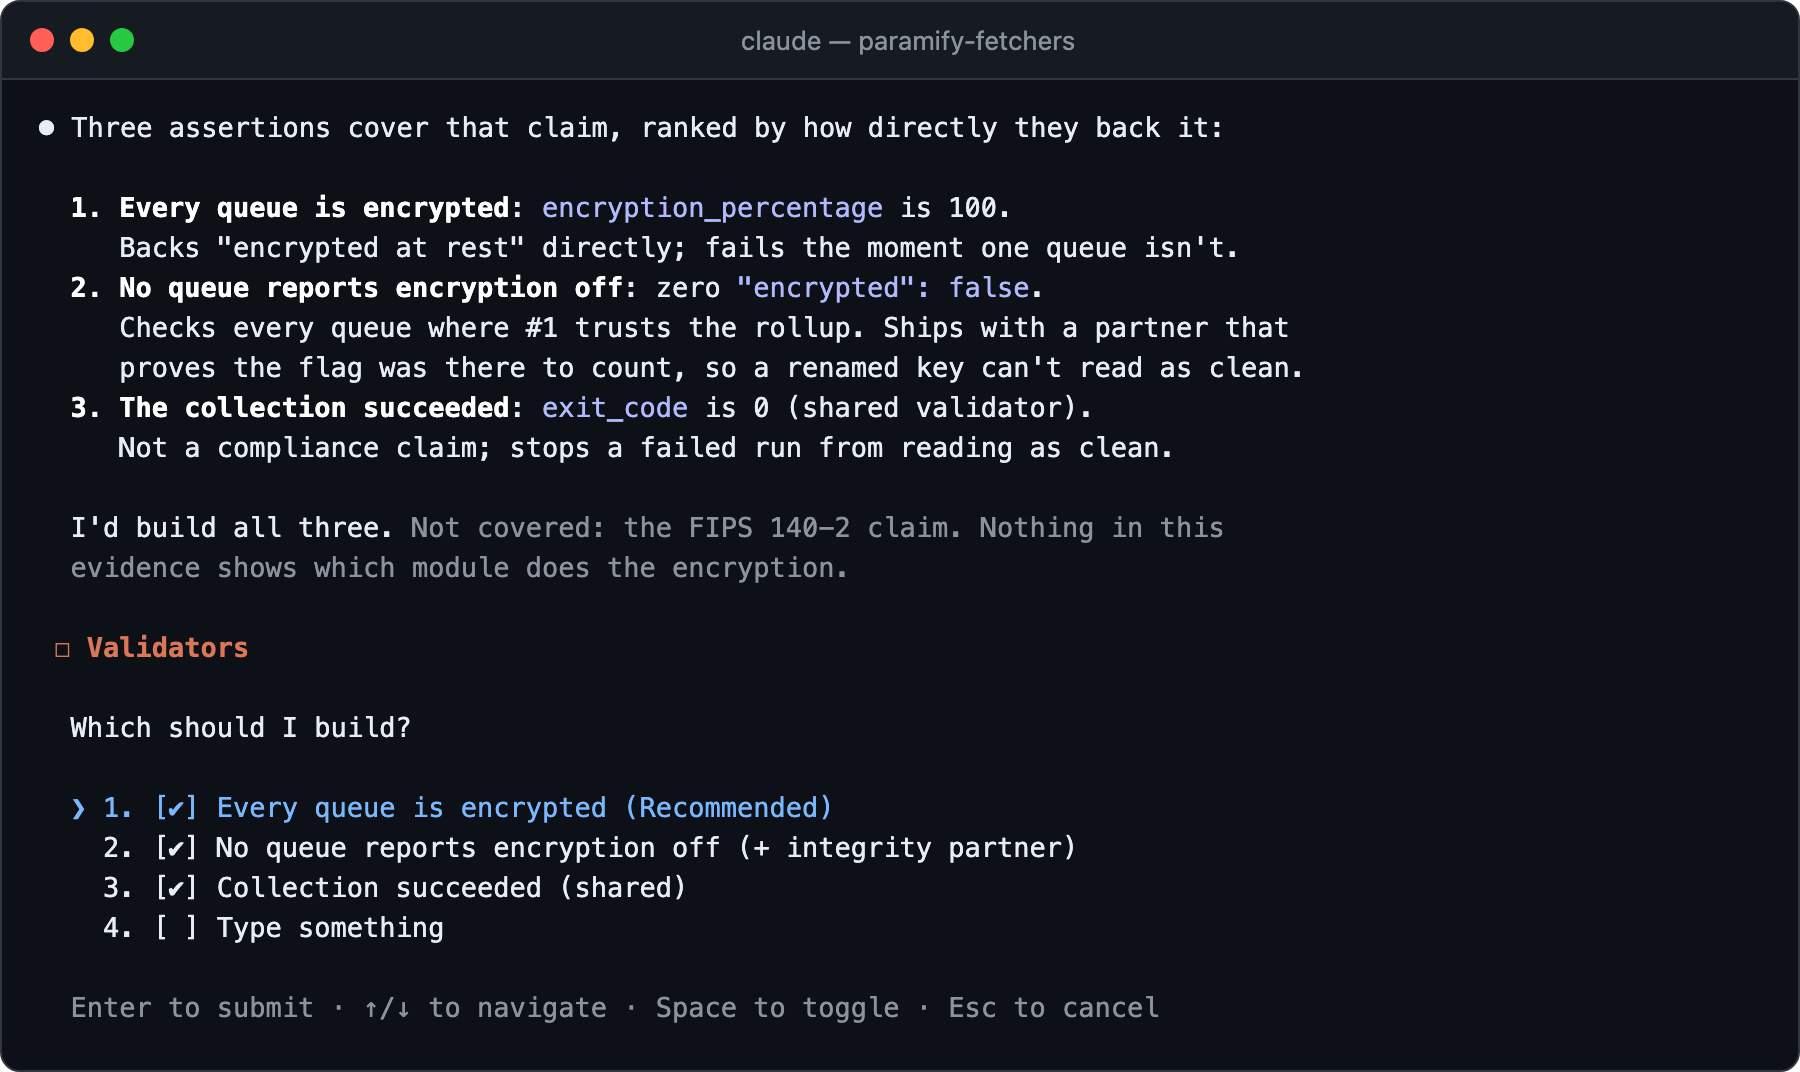
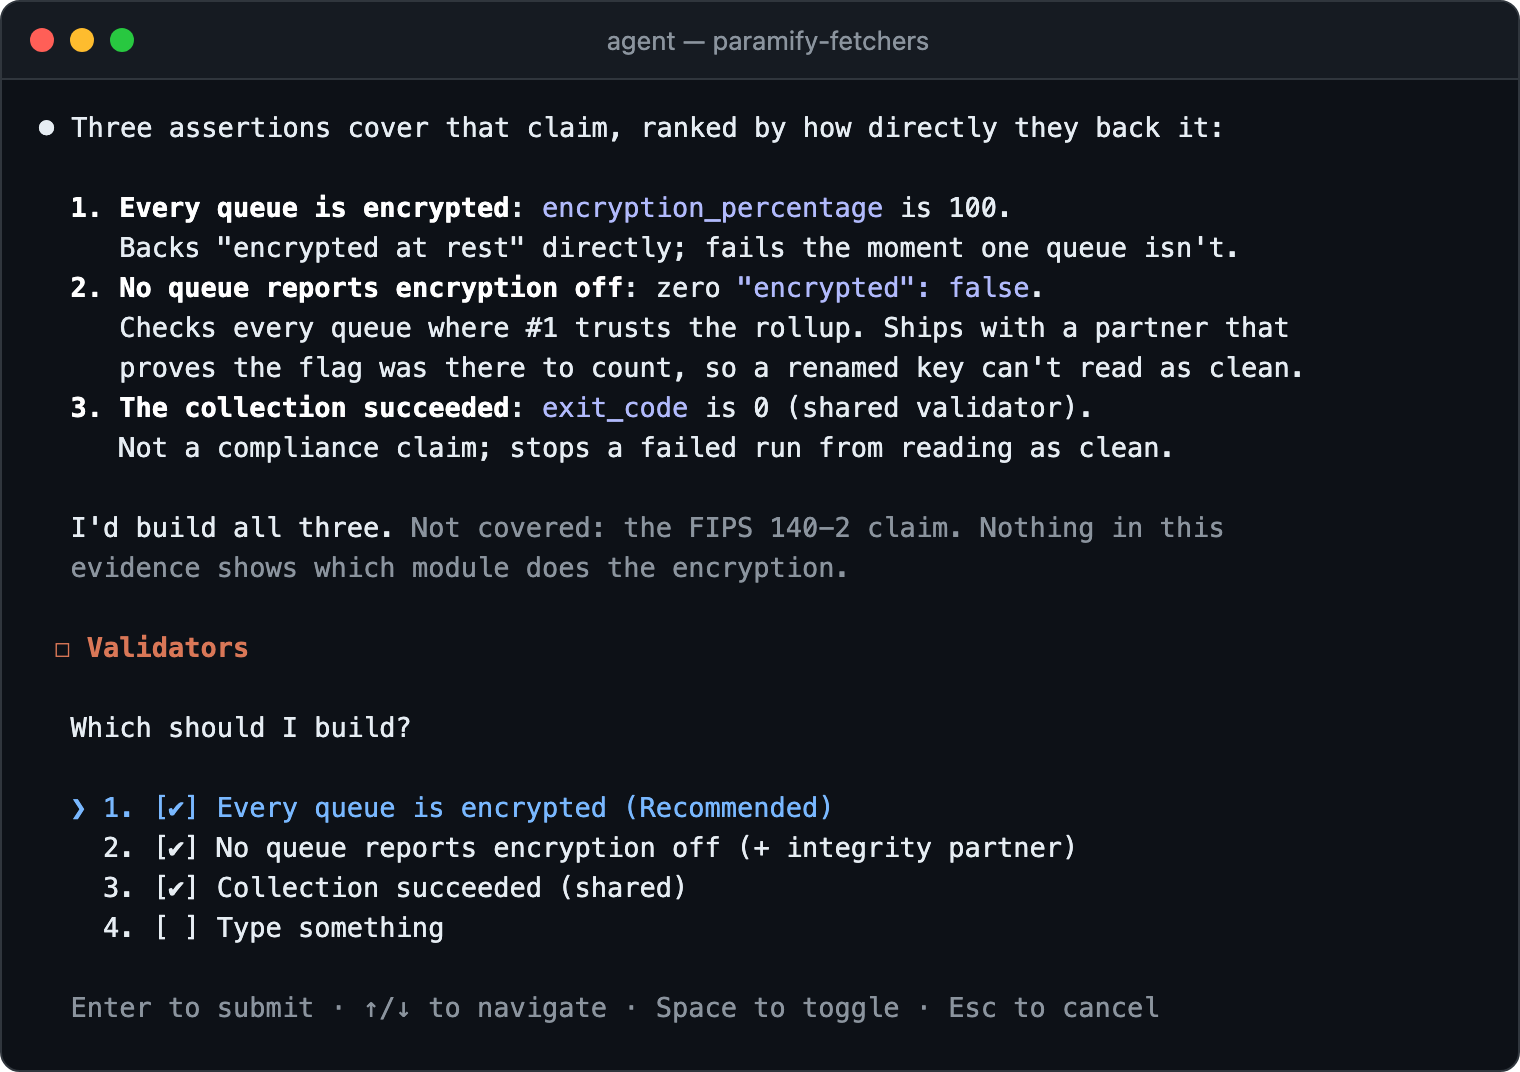
Make the suggest-validator guide agent-agnostic and point it at app.paramify.com
Refers to "the agent" instead of Claude throughout the text, diagram and
example session panels, and drops the stage-first advice so every URL
shown is the production default.

diff --git a/docs/suggest_validator_guide.md b/docs/suggest_validator_guide.md
@@ -10,7 +10,7 @@ check the results in the app.
 ![End-to-end flow: API key and real evidence, then the six skill phases, then upload, sync, and verify in Paramify](img/suggest_validator/flow.svg)
 
 **You need:** [the repo installed](../README.md#install) ·
-[Claude Code, run from the repo root](../README.md#drive-it-with-an-ai-agent) ·
+[an AI coding agent, run from the repo root](../README.md#drive-it-with-an-ai-agent) ·
 Node.js (Paramify runs validator regexes as JavaScript)
 
 ---
@@ -25,9 +25,8 @@ The permissions listed there leave out one this skill needs:
 ![The Create API Key dialog with View Solution Capabilities, View/Write Evidences, and View/Write Validators](img/suggest_validator/app-01-api-key.png)
 
 Put the key in `.env` at the repo root (`paramify` loads it automatically).
-Start on stage (`PARAMIFY_API_BASE_URL=https://stage.paramify.com/api/v0`),
-since syncing writes to the workspace. Stage and production keys are separate.
-To check the key works:
+It talks to `https://app.paramify.com/api/v0` by default. To check the key
+works:
 
 ![paramify capabilities list returning Data Protection capabilities](img/suggest_validator/01-key-check.png)
 
@@ -42,25 +41,25 @@ artifact from the workspace instead.
 
 ## 3. Run the skill
 
-In Claude Code, type `/suggest-validator <fetcher name>`, or just ask it to
-*"suggest validators for the SQS encryption evidence"*. Claude handles
+In your AI agent, run `/suggest-validator <fetcher name>`, or just ask it to
+*"suggest validators for the SQS encryption evidence"*. The agent handles
 everything that follows. The screenshots are an example session for
 `aws_sqs_encryption_status`.
 
-**Phases 1–2: evidence and claim.** Claude finds the newest populated run and
+**Phases 1–2: evidence and claim.** The agent finds the newest populated run and
 proposes the capability it should prove. Paramify's API doesn't link evidence
 sets to capabilities, so **you confirm the capability**. If it has no narrative
 yet, write one in Paramify first.
 
-![Example session: Claude reports the evidence file and proposes the Server-Side Encryption Protection narrative](img/suggest_validator/session-1-evidence.png)
+![Example session: the agent reports the evidence file and proposes the Server-Side Encryption Protection narrative](img/suggest_validator/session-1-evidence.png)
 
-**Phase 3: you choose.** Claude ranks the assertions that would back the
+**Phase 3: you choose.** The agent ranks the assertions that would back the
 claim, recommends a set, and names what the evidence can't cover.
 **You pick which ones to build.**
 
 ![Example session: three ranked assertions and a multi-select prompt](img/suggest_validator/session-2-choose.png)
 
-**Phases 4–5: build and prove.** Claude writes the validators and tests each
+**Phases 4–5: build and prove.** The agent writes the validators and tests each
 one three ways: good evidence (should pass), bad evidence (should fail), and a
 renamed field (should not pass). Then it scores your real evidence.
 
@@ -70,7 +69,7 @@ renamed field (should not pass). Then it scores your real evidence.
 > passes, a FAIL means your environment doesn't meet the narrative. That's a
 > finding to act on, not a broken validator.
 
-**Phase 6: hand-back.** Claude reports what each validator asserts and when it
+**Phase 6: hand-back.** The agent reports what each validator asserts and when it
 fails, then offers to sync. It never syncs on its own.
 
 ![Example session: summary table of validators, roles, and failure conditions, plus an offer to sync](img/suggest_validator/session-4-handback.png)
@@ -82,7 +81,7 @@ their `validators/_cases/` files.
 
 ## 4. Publish to Paramify
 
-Tell Claude to sync, or run it yourself (add `--dry-run` to preview first):
+Ask the agent to sync, or run it yourself (add `--dry-run` to preview first):
 
 ```bash
 paramify upload --with-validators
@@ -118,7 +117,7 @@ the sync has no result. Upload a fresh run to get one.
 ![Artifacts tab: the newer artifact shows Partial, the one uploaded before the sync shows nothing](img/suggest_validator/app-03-artifacts.png)
 
 **Click the result** to see each validator's verdict. It should match what
-Claude reported in phase 5.
+the agent reported in phase 5.
 
 ![The Partial badge expanded: two validators Fail, two Pass](img/suggest_validator/app-04-artifact-verdicts.png)
 
@@ -130,12 +129,12 @@ Claude reported in phase 5.
 |---|---|
 | 401/403, or "No Paramify API token" | Check the key's permissions ([step 1](#1-get-a-paramify-api-key)) and that `PARAMIFY_API_BASE_URL` matches the environment where the key was created. |
 | "No narrative written on this capability" | Write the narrative in Paramify, or pick another capability. |
-| Claude says the evidence is empty | Run the fetcher against real data. For findings-style fetchers (GuardDuty, vulnerability scans), tell Claude that zero findings is the compliant result. |
+| The agent says the evidence is empty | Run the fetcher against real data. For findings-style fetchers (GuardDuty, vulnerability scans), tell the agent that zero findings is the compliant result. |
 | Sync fails with HTTP 400 | That validator `name` is already used in the workspace. Rename it in the YAML. |
 | Sync shows `set_not_found=EVD-…` | Sync ran before the upload, so the validator was created without being attached. Attach it from the set's **Validators** tab → **Manage Selection**. |
 | A validator is missing from the set's Validators tab | Sync only attaches validators when it first creates them (`skipped_exists` means it didn't). Attach it via **Manage Selection**. |
 | An artifact has no Validation Result | It was uploaded before the validators were attached. Upload a fresh run. |
-| App verdicts differ from what Claude reported | The app copy was edited, or is out of date. `--update` overwrites it with the repo version ([sync options](../uploaders/paramify_validators/README.md#run-it)). |
+| App verdicts differ from what the agent reported | The app copy was edited, or is out of date. `--update` overwrites it with the repo version ([sync options](../uploaders/paramify_validators/README.md#run-it)). |
 
 **More detail:** [the skill](../.claude/skills/suggest-validator/SKILL.md) ·
 [validator design](validators_design.md) ·
